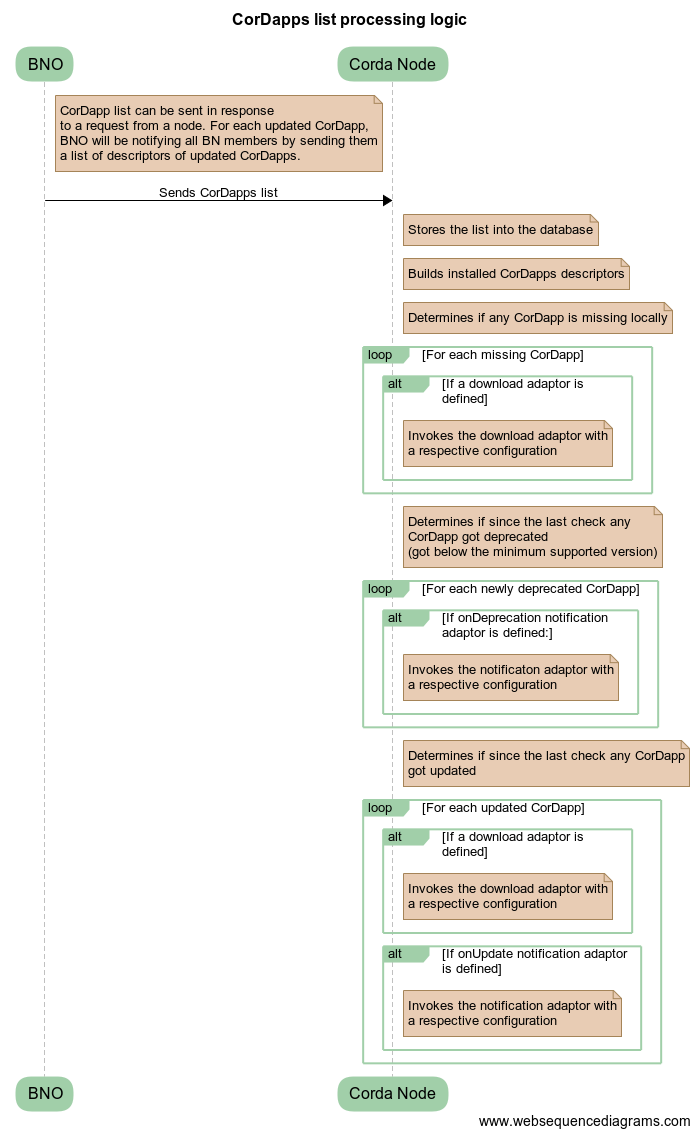
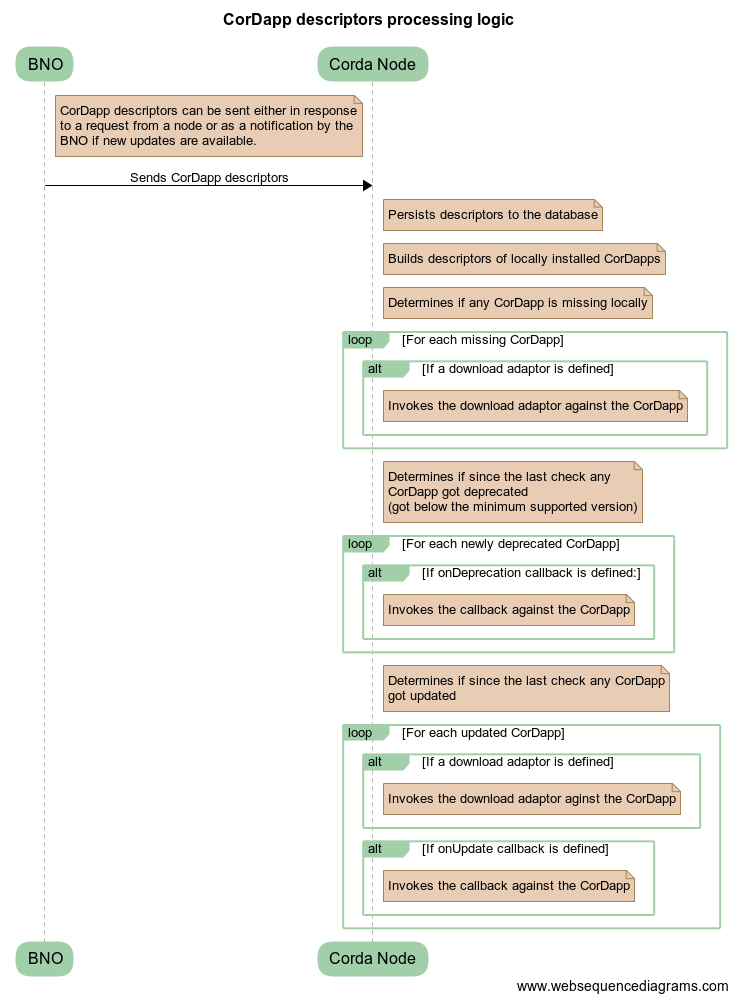
Added more information into cordapp distribution design doc

Changed region(s): [[0.0, 0.0, 0.9914, 0.991], [0.691, 0.96, 0.9914, 1.0], [0.03, 0.9291, 0.1202, 0.991]]

diff --git a/bn-apps/cordapp-distribution/design/design.md b/bn-apps/cordapp-distribution/design/design.md
@@ -21,30 +21,28 @@ DOCUMENT MANAGEMENT
 * *SE* - Solutions Engineer
 * *BN* - Business Network
 * *BNO* - Business Network Operator. A well-known party on the network.
-* *CDS* - CorDapp distribution service
+* *CDS* - CorDapp Distribution Service
 * *CZ* - Compatibility Zone
 
 ### Overview
 
-This proposal describes the architecture of a reference implementation for the CorDapp distribution service.
+This proposal describes the architecture of a reference implementation for the CorDapp Distribution Service.
 
 ### Background
 
-A problem of distributing CorDapp updates is actual for every Business Network running on Corda. An automated software distribution mechanism would allow Business Network Operator to [TODO]
+Decentralised platforms have introduced some operational challenges, one of which - is coordinated distribution and installation of software updates. Deploying an update to the whole Corda Business Network in the same time might not be feasible, unless the whole of the network can be shut down to perform an upgrade. Shutting the whole of the network down is possible, but highly unlikely, as a single node might be involved into multiple Business Networks, with unrelated governance structures. This design introduces a concept of CorDapp Distribution Service which aims to tackle these issues.
 
 ### Scope
 
-Design a reference implementation of CorDapp, that would allow Business Network Operator to distribute Corda and CorDapp updates to the members of their Business Network.
+Design a reference implementation of CorDapp, that would allow Business Network Operator to distribute CorDapp updates to the members of their Business Network.
 
 In-scope:
-* Distribution of initial software for a new participant to join the Business Network
-* Distribution of CorDapps by BNO to their Business Network members
-* Distribution of Corda updates by BNO to their Business Network members
-* Banning contract-and-states jars from transacting on the network
+* Distribution of CorDapp updates to the Business Network
+* Revocation of CorDapps from the Business Network
 
 Out of scope:
 * CZ on-boarding. This design document assumes that a user already has a valid CZ certificate.
-* Initial node setup.
+* Initial node setup. Initial CorDapps, such as [Business Network Membership Service](https://github.com/corda/corda-solutions/blob/master/bn-apps/memberships-management/design/design.md).
 * Update installation. To install an update, a node needs to be switched into the flow draining mode and then restarted. Both of the operations would require a human intervention and can't be automated at the moment.
 
 ### Timeline
@@ -54,32 +52,32 @@ Out of scope:
 
 ### Requirements
 
-* New participant should be able to join a BN in an automated way
-* BNO should be able to distribute CorDapp and platform updates to the BN members
-* BNO should be able to distribute a list of allowed / deprecated CorDapp and platform versions
-* BNO should be able to promptly notify BN members about a CorDapp / platform version deprecation
+* BNO should be able to distribute CorDapp to the BN members
+* BNO should be able to deprecate CorDapp from the BN
+* BNO should be able to promptly notify BN members about a CorDapp deprecation  / update availability
 
 ### Assumptions
 
 * The user has a valid CZ certificate
-* The user has been on-boarded to the Business Network via the BNMS [LINK] service
+* The user has been on-boarded to the Business Network via the [Business Network Membership Service](https://github.com/corda/corda-solutions/blob/master/bn-apps/memberships-management/design/design.md)
 
 ### Target solution
 
 The proposal is to implement CorDapp distribution service at the CorDapp level, for the following reasons:
-
-[ADD SOME REASONS]
+* Ease of  integration with other BN services, such as [Business Network Membership Service](https://github.com/corda/corda-solutions/blob/master/bn-apps/memberships-management/design/design.md), [Ledger Synchronisation Service](https://github.com/corda/corda-solutions/blob/master/bn-apps/ledger-sync/design/design.md)
+* Ability of BNs to tweak the implementation for their needs
+* This approach would also ease an installation and integration of the BNO applications into the existing enterprise infrastructures, as it would require less integration points with not-flow based internal systems.
 
 #### CorDapps list
 
-On start, each node should pull down a list of CorDapps which **must** be installed for it to be able to transact on the BN. This list will be distributed by BNO via Corda flows. BNO will be notifying each member about any update to it. The proposed data structure:
+On start, each node should pull down a list of CorDapps which **must** be installed to transact on the BN. This list will be distributed by BNO via Corda flows. BNO will be notifying each member about any update to it. The proposed data structure:
 
 ```
 {
   "lastUpdated" : "2018-06-20T13:59:58+00:00",
   "cordapps" : [
     {
-      "vendor" : "accenture",
+      "vendor" : "com.accenture",
       "name" : "accenture-states",
       "currentVersion" : "1.2",
       "minimumVersion" : "0.9",
@@ -90,12 +88,12 @@ On start, each node should pull down a list of CorDapps which **must** be instal
       }
     },
     {
-      "vendor" : "accenture",
+      "vendor" : "com.accenture",
       "name" : "accenture-flows",
       "currentVersion" : "1.3",
       "minimumVersion" : "1.0",
       "hash" : "jfbasvdbascdbvac",
-      "vendorCertificate" : "blahblahblah"
+      "vendorCertificate" : "blahblahblah",
       "distribution" : {
         "type" : "web", // this CorDapp can be downloaded via HTTP
         "url" : "http://my-super-cdn"
@@ -106,29 +104,32 @@ On start, each node should pull down a list of CorDapps which **must** be instal
 }
 ```
 
-Each CorDapp definition can be associated with a *distribution mechanism*. *Distribution mechanism* defines how a CorDapp **can** be downloaded, however it wouldn't enforce a node to perform any particular **action**. *Node administrators* will be able to specify what to do in a response to a new update or a minimum version bump. For example this could be such things as to send an email or to raise a warning on the monitoring system or to download a CorDapp into a local folder and etc. This configuration will be done on a *node level* (described in the further sections), as it might vary from a node to node even within a single BN. It will be up to *node administrators* to configure their CDS CorDapps to find the right balance between automation and their internal security policies. More about automation is described in the further sections.
+Each CorDapp definition can be associated with a *distribution mechanism*. *Distribution mechanism* defines how a CorDapp **can** be downloaded, however it wouldn't enforce a node to perform any particular **action**. *Node administrators* will be able to specify what to do in a response to a new update availability or a minimum version bump. For example this could be such things as to send an email or to raise a warning on the monitoring system or to download a CorDapp into a local folder and etc. This configuration will be done on a *node level* (described in the further sections), as it might vary from a node to node even within a single BN. It will be up to *node administrators* to configure their CDS CorDapps to find the right balance between automation and their internal security policies. Default configurations will provided by the BNO. More about automations is described in the further sections.
 
-Cordapp descriptor also contains some generic information about a CorDapp, such as `vendor`, `name`, `currentVersion`, `minimumVersion`, the `hash` of the jar file as well as the `vendorCertificate`, which the CorDapp jar can be validated with. `MinimumVersion` defines the minimum supported version of the CorDapp on this Business Network. `MinimumVersion` can be bumped by the BNO if a critical vulnerability has been discovered or if a new version of the CorDapp is not backward compatible.
+CorDapp descriptor contains some generic information about a CorDapp, such as `vendor`, `name`, `currentVersion`, `minimumVersion`, the `hash` of the jar file as well as the `vendorCertificate`, which the CorDapp jar can be validated with. `MinimumVersion` defines the minimum supported version of the CorDapp on this Business Network. `MinimumVersion` can be bumped by the BNO if a critical vulnerability has been discovered or if a new version of the CorDapp is not backward compatible.
 
-Given a nature of the DLT applications, deploying an update to the whole network in the same time might not be feasible, unless the whole of the network can be shut down to perform an update. Shutting the whole of the network down is possible, but highly unlikely, as a single node might be involved into multiple Business Networks, with unrelated governance structures. BNO will not able to enforce a node to install updates. Its a responsibility of the node owner to install updates promptly if their CorDapps are outdated and especially if a CorDapp's version is below the allowed minimum. More about automation is described in the further sections.
+BNO will not able to enforce a node to install updates. *Node administrators* should consider updating their CorDapps if a newer version is available and **must** update CorDapps if their version gets below the `minimumVersion`. Prompt installation can be achieved by utilising *download adaptors* and *update callbacks*, which are described in the further sections.
 
-CorDapps should be designed to be backward compatible. Corda provides mechanisms for flow versioning [LINK] and contract constraints [LINK] at the platform level out-of-the-box.
+CorDapps should be designed to be backward compatible. Corda provides mechanisms for [flow versioning](https://docs.corda.net/head/upgrading-cordapps.html#flow-versioning), [contract and state upgrades](https://docs.corda.net/head/upgrading-cordapps.html#contract-and-state-versioning), [states evolution](https://docs.corda.net/head/serialization-default-evolution.html) and [contract constraints](https://docs.corda.net/head/api-contract-constraints.html) at the platform level out-of-the-box.
 
-CorDapp descriptors will be persisted into the database and will shared between instances in HA mode.
+#### Distribution mechanisms and download adaptors
 
-#### Distribution mechanisms
+*Distribution mechanisms* will be pluggable and extensible. Each CorDapp can be associated with its own *distribution mechanism*, such as *Corda flows*, *http*, *ftp* and etc. BNOs will be able to define their own *distribution mechanisms* if they are unavailable in the standard implementation. *Distribution mechanism* are defined by a *name* and might also have a custom configuration parameters, such as *download url*, *authentication params* and etc.
 
-*Distribution mechanisms* will be pluggable and extensible. Each CorDapp can be associated with a separate *distribution mechanism*, such as `CordaFlows`, `HTTP` or `FTP` and etc. BNOs will be able to define own *distribution mechanisms* if they are missing from the standard implementation. *Distribution mechanism* must have a name and might also have other optional configuration parameters, such as download url and etc.
-
-On a node's side, the *node administrator* will be able to associate each *distribution mechanism* with a *download adaptor*. All *download adaptors* will need to implement a standard interface (provided with the CDS). The *download adaptors* will be responsible for downloading a CorDapp based on the provided configuration. The configuration will consist of the CorDapp descriptor (described in the previous section) and the local configuration, which will have to be provided by a *node administrator*. The proposed configuration structure:
+On a node's side, the *node administrator* will be associating a *distribution mechanism* (by its name) with a *download adaptor*. *Download adaptors* will have to implement a standard interface, which will be provided with the CDS. The *download adaptors* will be responsible for downloading a CorDapp based on the *distribution mechanism's* configuration and the *local CDS configuration*, defined by the *node administrator*. The proposed *CDS configuration* structure:
 ```
 {
   ...
   "distribution" : {
 
-    "web" : { // defines a download adaptor for the "web" distribution mechanism
-      "downloadAdaptor" : "com.my.adapters.MyCdnDownloadAdapter", // this adaptor will be used to download updates of CorDapps with the "web" distribution mechanism
-      "configuration" : { // this is the custom configuration, which will be passed to the MyCdnDownloadAdapter along with descriptor of a CorDapp.
+    "web" : {
+      // This will associate MyCdnDownloadAdapter with the "web" distribution mechanism.  
+      // MyCdnDownloadAdapter will be invoked against each CorDapp update with "web" distribution type.
+      // MyCdnDownloadAdapter will be provided with the distribution mechanism's configuration (such as downloadUrl)
+      // as well as with the download adaptor configuration, which is specified below
+      "downloadAdaptor" : "com.my.adapters.MyCdnDownloadAdapter",
+
+      "configuration" : { // this is the custom configuration, which will be passed to the MyCdnDownloadAdapter
         "authentication" : { }, // some custom auth parameters
         "downloadFolder" : "/home/corda/updates/",
         ...
@@ -141,31 +142,31 @@ On a node's side, the *node administrator* will be able to associate each *distr
 ```
 If some *distribution mechanism* is not associated with any *download adaptor* - then no CorDapp updates with this *distribution mechanism* will be downloaded. Node administrators might choose to not to configure any *download adaptors* if they would like to perform download manually.
 
-Each jar's signature will be verified by a *download adaptor* by default.
+Jar signatures will be verified after the download is performed by a *download adaptor*.
 
-#### Notifications
+#### Update callbacks
 
-*Node administrators* will be able to configure custom notification for events of the following types:
-* `onUpdate`. The notification will be triggered when a new update of a CorDapp is available.
-* `onDeprecation`. The notification will be triggered when an installed version of a CorDapp is below the `minimumVersion` from the CorDapp descriptor.
+*Node administrators* will be able to associate custom *update callbacks* with the events of the following types:
+* `onUpdate`. The *update callback* will be invoked when a new update of a CorDapp is available.
+* `onDeprecation`. The *update callback* will be invoked when an installed version of a CorDapp is below the `minimumVersion` from the CorDapp descriptor.
 
-Notification will be send via *notification adaptors*. *Notification adaptors* will be defined by a standard interface and can be implemented by users. Some *notification adaptors* will be provided with a reference implementation.  
+*Update callbacks* will have to implement a standard interface, which will be provided with the CDS implementation.
 
-*Notification adaptors* are responsible for sending a notification based on a descriptor of an updated / deprecated CorDapp and a local configuration, provided by the *node administrator*. *Notification adaptor* might be responsible for such things as sending an email or dropping a message to MQ and etc. Developers will be able to integrate the Notification adaptors with their internal monitoring / alerting systems.
+*Update callbacks* might be doing such things as sending an email or dropping a message to MQ and etc. Developers will be able to implement their own *update callbacks* and to integrate them with their internal monitoring / alerting systems.
 
-Proposed configuration:
+Proposed configuration for update callbacks:
 ```
 {
   ...
-  "notification" : {
+  "callbacks" : {
     "onUpdate" : {
-      "notificationAdapter" : "com.my.adapters.SendEmailViaSMTPAdapter",
+      "callback" : "com.my.adapters.SendEmailViaSMTPCallback",
       "configuration" : {
         // some custom configuration
       }
     },
-    "onDeprecate" : {
-      "notificationAdapter" : "com.my.adapters.RaiseIssueOnMonitoringDashboardAdapter",
+    "onDeprecation" : {
+      "callback" : "com.my.adapters.RaiseIssueOnMonitoringDashboardCallback",
       "configuration" : {
         // some custom configuration
       }
@@ -175,18 +176,22 @@ Proposed configuration:
 }
 ```
 
+Similarly to *download adaptors*, *notification callbacks* might define their custom local configuration.
+
+*Node administrator* will be responsible for switching the node into *flows draining mode*, installing updates and restarting the node manually, in response to notifications from the CDS. 
+
 #### CorDapp structure
 
-All CorDapps should contain a standard CorDapp descriptor inside their `META-INF` folder.
+All CorDapps should contain a standard CorDapp descriptor inside their `META-INF` folder, with such information as *vendor*, *name* and *version*. This descriptors will be used by the CDS CorDapp to identify whether the CorDapp requires upgrading.
 
-CorDapps have to be signed via standard java signing mechanism if their signature needs to be verified.
+CorDapps would have to be signed via standard java signing mechanism if their signature needs to be verified.
 
-#### CorDapps list processing logic
+#### CorDapps descriptors processing logic
 
 ![CorDapps list processing logic](./resources/cordapps_list_processing.png).
 
 ### API extension points
 
-* Custom notification adaptors which can be integrated into internal systems
-* Custom download adaptors
-* Custom distribution mechanisms
+* Custom *update callbacks* which can be integrated into internal systems
+* Custom *download adaptors*
+* Custom *distribution mechanisms*
